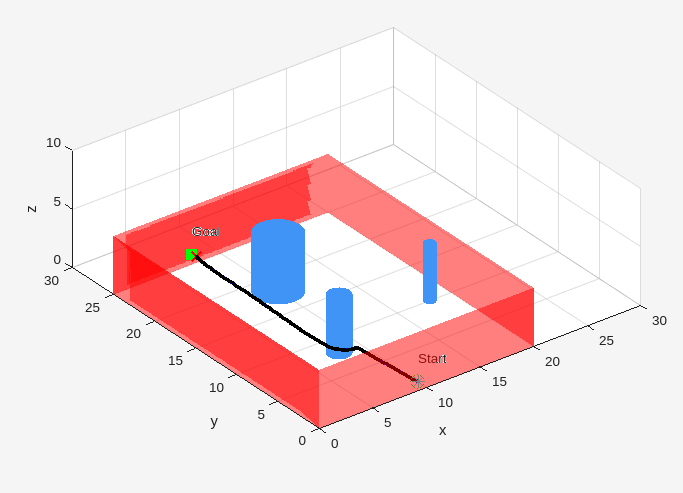
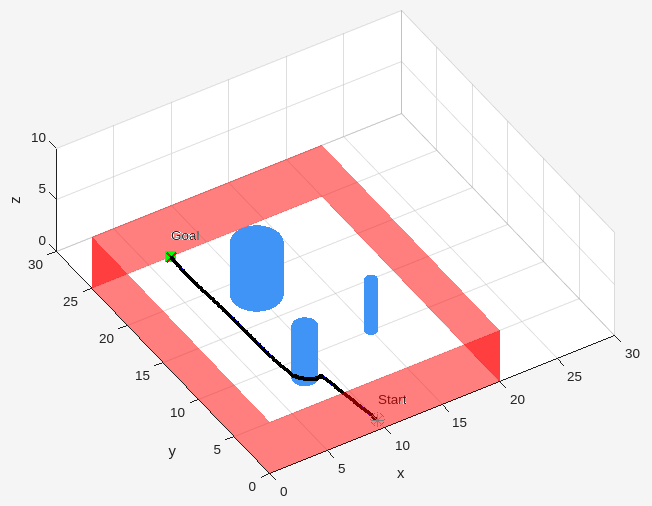
final

diff --git a/APFPathPlanner.m b/APFPathPlanner.m
@@ -95,7 +95,7 @@ classdef APFPathPlanner
                         closestPoint = max(wallMin, min(pos, wallMax));  % projection
                         delta = norm(pos - closestPoint);
                         delta = max(delta, eps);
-                        sigma = 0.1 * (norm(obs.dims(:)) + obj.safetyMargin);  % smoother
+                        sigma = 0.05 * (norm(obs.dims(:)) + obj.safetyMargin);  % smoother
                         decay = exp(-delta^2 / (2 * sigma^2));
                         d_rou = (pos - closestPoint) / (delta + eps);
                         Frep = Frep + obj.Krep * decay * d_rou;

diff --git a/main.m b/main.m
@@ -5,7 +5,7 @@ goal = [5 22 3];
 
 % Add buildings
 Cpos = [8,8,5;
-        18,10,5; 
+        15,10,5; 
         10,18,5; 
         ];
 
